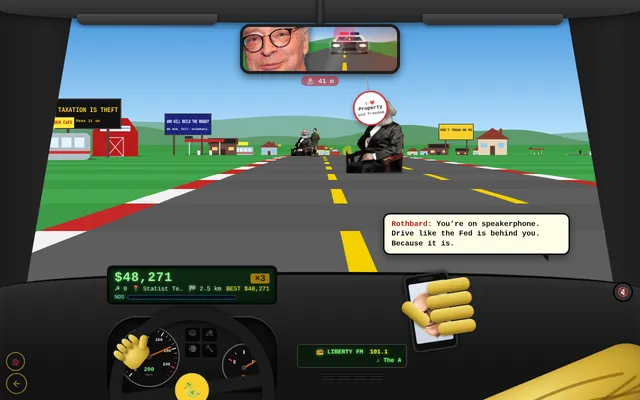
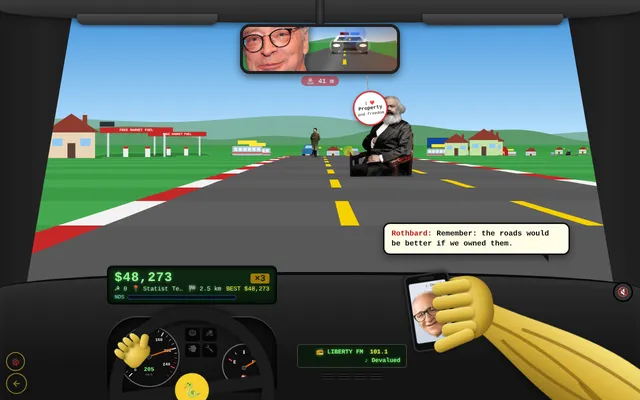
fix(road-to-liberty): connect the forearm to the hand holding the phone

diff --git a/vidya/road-to-liberty.html b/vidya/road-to-liberty.html
@@ -88,15 +88,26 @@
                 <div class="vents"><i></i><i></i><i></i><i></i></div>
             </div>
             <div id="arm">
-                <div id="forearm">
-                    <svg viewBox="0 0 400 140" preserveAspectRatio="none" aria-hidden="true">
-                        <path d="M 30 80 Q 140 55 290 92 T 390 70" class="vein" />
-                        <path d="M 60 96 Q 190 120 350 74" class="vein" />
-                        <path d="M 90 48 Q 210 30 330 58" class="vein" />
-                        <path d="M 220 84 Q 290 108 390 86" class="vein" />
-                    </svg>
-                </div>
                 <div id="hand">
+                    <!-- One piece: the forearm runs out of the wrist, behind the palm -->
+                    <div id="forearm">
+                        <svg viewBox="0 0 400 140" preserveAspectRatio="none" aria-hidden="true">
+                            <defs>
+                                <linearGradient id="arm-gold" x1="0" y1="0" x2="0" y2="1">
+                                    <stop offset="0" stop-color="var(--gold-light)" />
+                                    <stop offset="0.5" stop-color="var(--gold)" />
+                                    <stop offset="1" stop-color="var(--gold-dark)" />
+                                </linearGradient>
+                            </defs>
+                            <!-- Narrow at the wrist (left), bulging toward the elbow (right) -->
+                            <path d="M 14 44 Q 2 70 14 98 C 110 112 170 150 300 140 L 400 138 L 400 2 L 300 4 C 190 -6 110 30 14 44 Z" fill="url(#arm-gold)" />
+                            <path d="M 40 74 Q 140 60 260 90 T 390 72" class="vein" />
+                            <path d="M 70 92 Q 190 120 350 96" class="vein" />
+                            <path d="M 90 54 Q 210 28 330 40" class="vein" />
+                            <path d="M 220 84 Q 290 112 390 104" class="vein" />
+                        </svg>
+                    </div>
+                    <div id="palm"></div>
                     <div id="phone">
                         <div class="phone-notch"></div>
                         <div id="phone-screen">
@@ -104,10 +115,10 @@
                             <img src="img/rothbard.webp" alt="Murray Rothbard on the phone screen">
                         </div>
                     </div>
-                    <div class="finger" style="top: 18px; width: 86px;"></div>
-                    <div class="finger" style="top: 46px; width: 92px;"></div>
-                    <div class="finger" style="top: 74px; width: 88px;"></div>
-                    <div class="finger" style="top: 102px; width: 76px;"></div>
+                    <div class="finger" style="top: 22px; width: 76px;"></div>
+                    <div class="finger" style="top: 50px; width: 80px;"></div>
+                    <div class="finger" style="top: 78px; width: 78px;"></div>
+                    <div class="finger" style="top: 106px; width: 70px;"></div>
                     <div class="finger thumb"></div>
                 </div>
             </div>

diff --git a/src/games/road-to-liberty/style.css b/src/games/road-to-liberty/style.css
@@ -886,17 +886,16 @@ body {
     transition: transform 0.08s linear;
 }
 
+/* Starts at the wrist (inside the palm) and runs down to the bottom-right corner. */
 #forearm {
     position: absolute;
-    right: 0;
-    bottom: 40px;
-    width: 420px;
-    height: 140px;
-    border-radius: 30px 120px 120px 50px;
-    background: radial-gradient(ellipse at 35% 30%, var(--gold-light), var(--gold) 45%, var(--gold-dark));
-    transform: rotate(-22deg);
-    transform-origin: right center;
-    box-shadow: 4px 6px 16px rgba(0, 0, 0, 0.5), inset -10px -12px 24px rgba(80, 50, 0, 0.45);
+    left: 130px;
+    top: 10px;
+    width: 470px;
+    height: 150px;
+    transform: rotate(40deg);
+    transform-origin: 0 50%;
+    filter: drop-shadow(4px 6px 10px rgba(0, 0, 0, 0.5));
 }
 
 #forearm svg {
@@ -904,6 +903,19 @@ body {
     inset: 0;
     width: 100%;
     height: 100%;
+    overflow: visible;
+}
+
+/* The back of the hand, behind the phone: the fingers and the wrist both grow out of it. */
+#palm {
+    position: absolute;
+    left: 66px;
+    top: 16px;
+    width: 104px;
+    height: 128px;
+    border-radius: 36px 52px 56px 40px;
+    background: radial-gradient(ellipse at 40% 35%, var(--gold-light), var(--gold) 55%, var(--gold-dark));
+    box-shadow: inset -8px -10px 18px rgba(80, 50, 0, 0.4);
 }
 
 .vein {
@@ -974,12 +986,13 @@ body {
     box-shadow: 0 2px 4px rgba(0, 0, 0, 0.4);
 }
 
+/* The thumb hooks under the bottom of the phone, from the palm. */
 .finger.thumb {
-    top: 64px;
-    left: -18px;
+    top: 128px;
+    left: 40px;
     right: auto;
-    width: 64px;
-    transform: rotate(48deg);
+    width: 84px;
+    transform: rotate(-14deg);
 }
 
 #brake,
